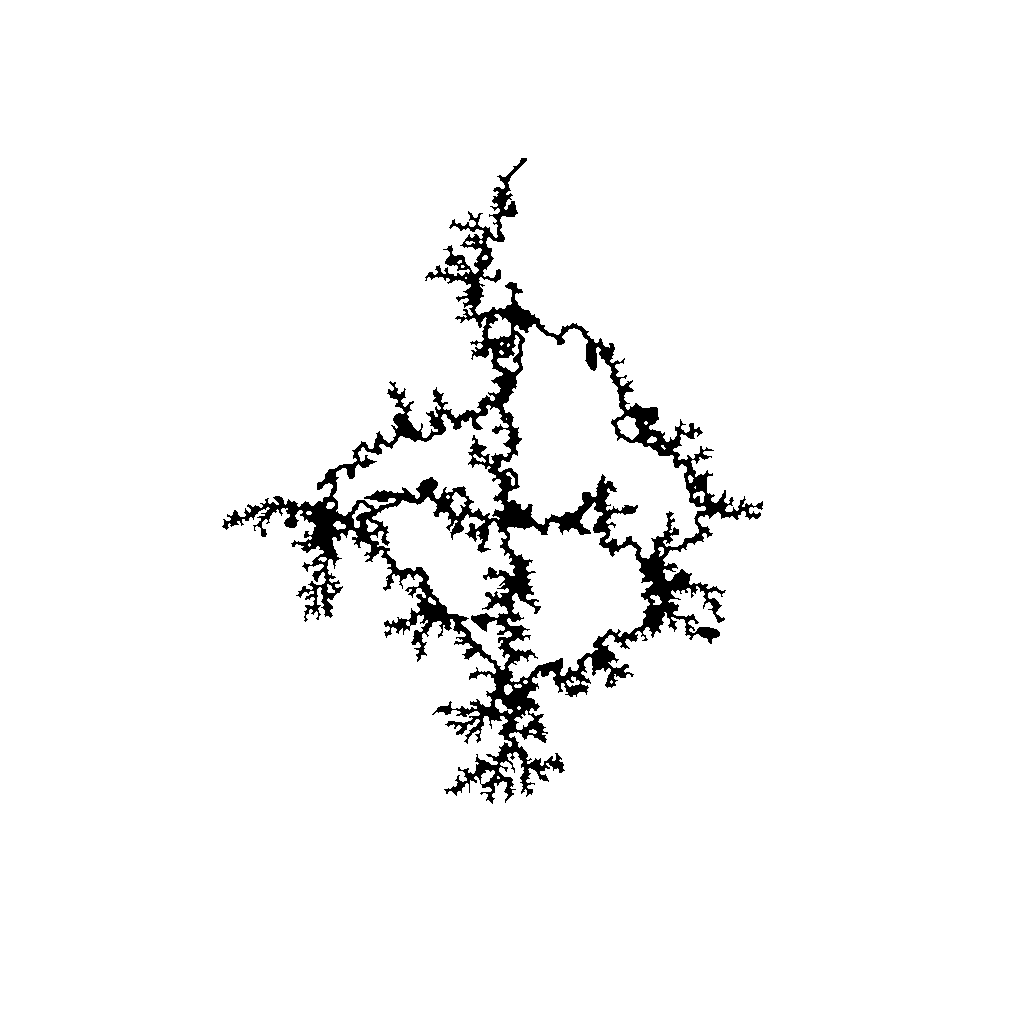
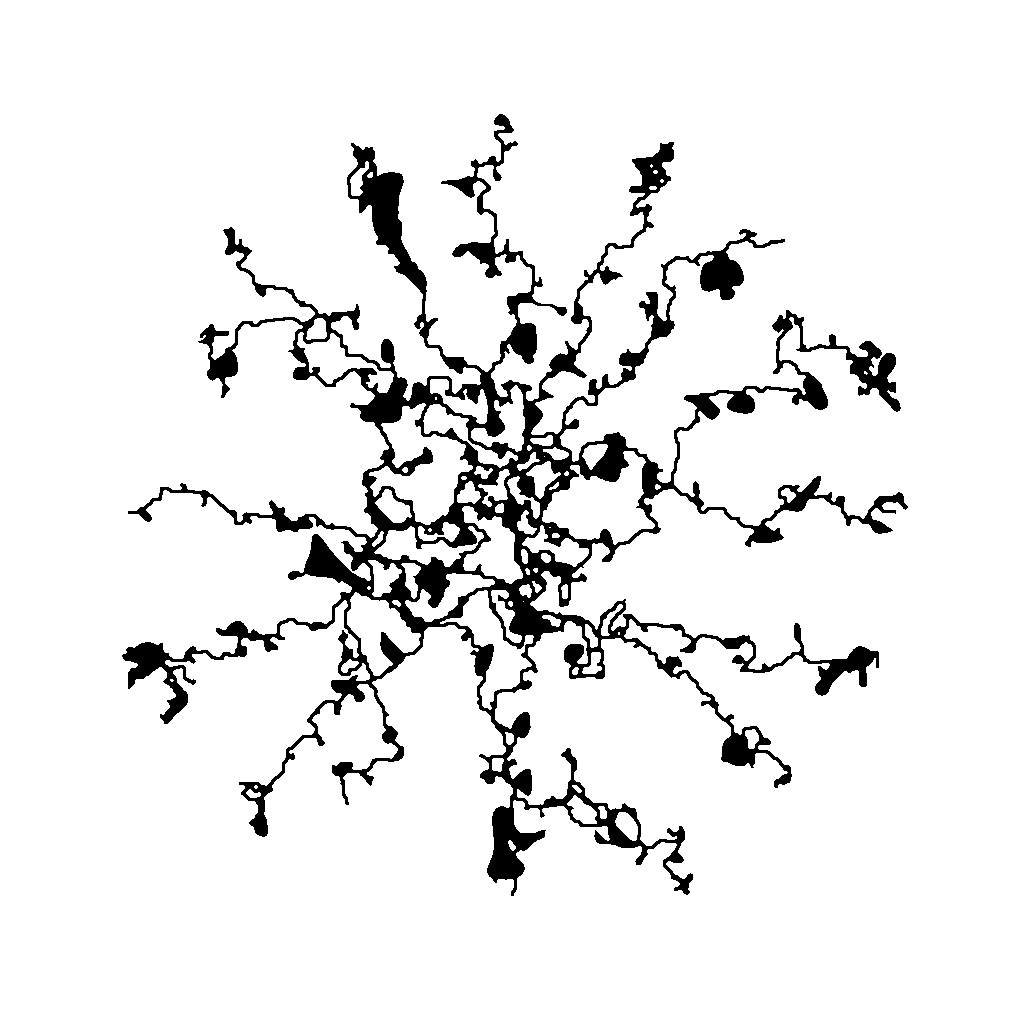
feat: snakey-path generation

diff --git a/packages/generation/src/freeform/mod.rs b/packages/generation/src/freeform/mod.rs
@@ -12,11 +12,12 @@ pub fn freeform(outfile: &str, floodfile: &str) {
     let height = width;
     let mut map = vec![vec![false; width]; height];
 
+    // Spawn room
     square_fill_seeds(&mut map, 8);
 
     let mut rng = rand::rng();
 
-    // cardinal edges
+     // Initial walkable path
     let (cx, cy) = center(&map);
     let cardinal_points = [
         (cx, 0),
@@ -30,98 +31,41 @@ pub fn freeform(outfile: &str, floodfile: &str) {
             &(cx, cy),
             &t,
             0.08,
-            width,
+            width / 4,
             2,
             1.0,
         );
     }
 
-    let seed_points= random(&map, 16);
-    dla::dla_generation(
-        &mut map,
-        5000,
-        10_000,
-        &seed_points,
-        &vec![(cx, cy)],
-        0.02,
-        |current, _, map| {
-            if current % 500 == 0 {
-                save_png(outfile, &map).unwrap();
-            }
-         }
-    );
-
-    let cardinal_halfway = [
-        (cx, height / 4),
-        (3 * width / 4, cy),
-        (cx, 3 * height / 4),
-        (width / 4, cy),
-    ];
-    for i in 0..cardinal_halfway.len() {
+    // Add some random paths
+    let path_count = 8;
+    let path_points = ring(&map, path_count * 2, width.min(height) / 2);
+    for i in 0..path_count {
+        // take two points to walk between
+        let a = path_points[2 * i];
+        let b = path_points[(2 * i + 1 + path_count) % path_points.len()];
         random_walk_fill(
             &mut map,
-            &cardinal_halfway[i],
-            &cardinal_halfway[(i + 1) % cardinal_halfway.len()],
-            0.08,
-            width,
+            &a,
+            &b,
+            0.05,
+            (((a.0 as isize - b.0 as isize).abs() + (a.1 as isize - b.1 as isize).abs()) as f64 * 1.5) as usize,
             2,
-            1.0,
+            0.5,
         );
     }
 
-    dla::dla_generation(
-        &mut map,
-        5000,
-        10_000,
-        &seed_points,
-        &vec![(cx, cy)],
-        0.02,
-        |current, _, map| {
-            if current % 500 == 0 {
-                save_png(outfile, &map).unwrap();
-            }
-         }
-    );
-
-    ca::cellular_automata(&mut map, 2, |_, _| { });
-
-    let external_centers = [
-        (width / 8, height / 8),
-        (7 * width / 8, height / 8),
-        (7 * width / 8, 7 * height / 8),
-        (width / 8, 7 * height / 8),
-    ];
-    for &center in &external_centers {
-        let n_w = width / 8;
-        let n_h = height / 8;
-        let n_area = n_w * n_h;
-        map[center.1][center.0] = true;
-
-        let radius = width / 8;
-        let circle = diamond(&map, 2, radius, center);
-        dla::dla_generation(
-            &mut map,
-            n_area / 4,
-            n_area,
-            &circle,
-            &vec![center],
-            0.02,
-            |current, _, map| {
-                if current % 500 == 0 {
-                    save_png(outfile, &map).unwrap();
-                }
-             }
-        );
-    }
-
+    // scale out to guarantee solid boarder
     resize(&mut map, 1024, 1024);
     let (cx, cy) = center(&map);
 
-    simplex::generate_simplex_noise(&mut map, &mut rng, 0.05, 0.9);
-    simplex::generate_simplex_noise(&mut map, &mut rng, 0.1, 0.9);
-    simplex::generate_simplex_noise(&mut map, &mut rng, 0.25, 0.9);
+    // Add some noise to make it less uniform
+    simplex::generate_simplex_noise(&mut map, &mut rng, 0.025, 0.85);
+    simplex::generate_simplex_noise(&mut map, &mut rng, 0.05, 0.85);
+    simplex::generate_simplex_noise(&mut map, &mut rng, 0.1, 0.85);
 
-    ca::cellular_automata(&mut map, 3, |_, _| { });
+    // Smoothing
+    ca::cellular_automata(&mut map, 5, |_, _| { });
 
     save_png(outfile, &map).unwrap();
 
